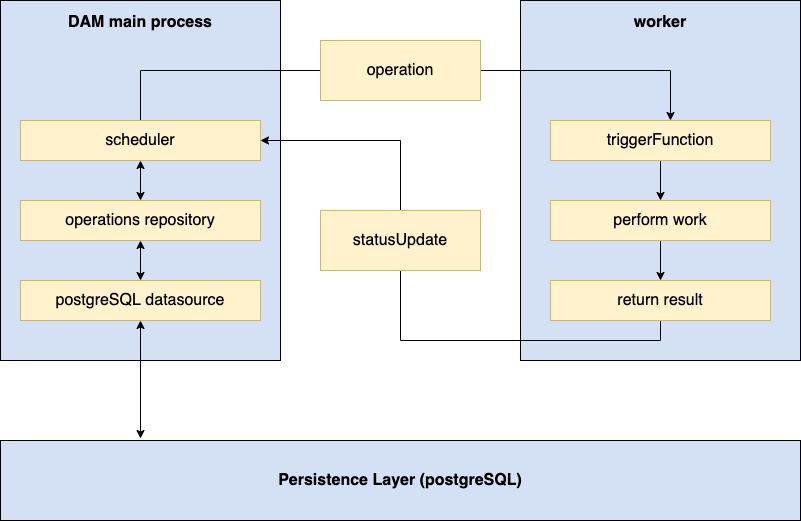
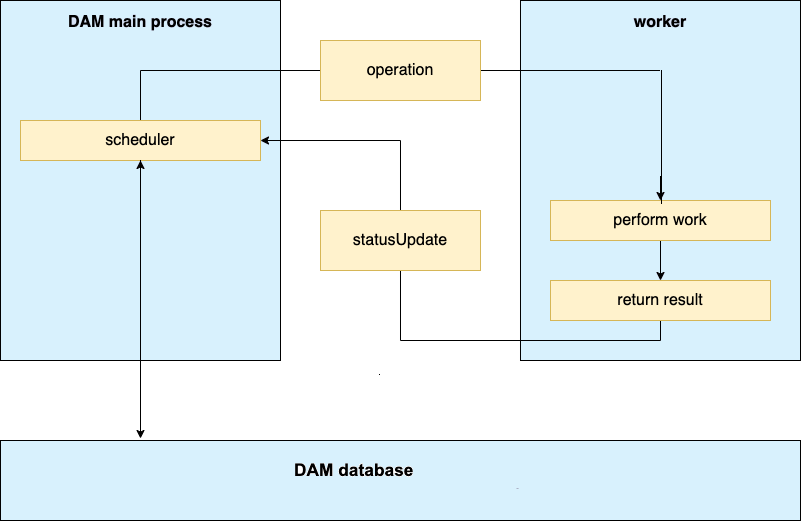
updated

diff --git a/docs/manage_content/digital_assets/operation_framework.md b/docs/manage_content/digital_assets/operation_framework.md
@@ -1,88 +1,52 @@
-# DAM - Operations framework
+# DAM - Operations framework 
 
-## Introduction
 
-The operations framework inside DAM allows us to create distinct tasks, called operations, that can be created and will be handled by a child task of DAM itself.
-This allows for better parallelization, scalability by handling multiple operations in parallel by a configurable amount of workers.
+One integral part of HCL DX Digital Asset Management is the so-called "operations framework". This tooling allows DAM to run asynchronous background processes.
 
----
-## Architectural Overview
+--- 
 
-The operations framework consists in the core of four key components (Marked **bold** in the text). For storing `operations` we leverage our ` DAM database`. On top of it sits a **`scheduler`** which will look for `operations` that need to be handled and will assign those to **`workers`**. Those **`workers`** receive the `operation` to be handled via inter-process-communication (IPC) from the DAM main process and will return their result after being done via IPC as well. Each operation has the name of the **`triggerFunction`** it is supposed to execute, as well as `inputs` that define attributes and data to work with for handling this `operation`.
+The operations framework consists of four key components:
+
+- For storing `operations` we leverage our `DAM database`. On top of it sits a **`scheduler`** which always looks for `operations` that need to be handled and will assign those to **`workers`**. Those **`workers`** receive the `operation` to be handled from the scheduler and will return their result after being done.
+- This allows for better parallelization, scalability by handling multiple operations in parallel by a configurable amount of workers.
 
 ![Architectural Overview](.../../../../images/architectural_overview.png)
-
----
-## Start & Stop
-
-The operations framework needs its `scheduler` to be started with the startup of DAM, otherwise newly created `operations` or existing ones that are not done yet will **not** be able to be handled by this DAM instance.
-During the startup, the `scheduler` will spawn the configured amount of `workers` and open an IPC channel to each of those `workers`. In this step, `workers` are categorized as `pending workers`, since they did not fully boot up yet and signaled the DAM main process that they are `ready`.
-
+ 
 ---
 ## Glossary
 
 ### Operation
-A specific task that needs to be performed. Will be stored in the the operations repository and be handled by the scheduler.
-
+A specific task that needs to be performed. Will be stored in the the DAM database and be handled by the scheduler.
 ### Worker
 A forked task that will be created by the DAM main process. This `worker` will receive the `operation` from the DAM main process and carry out the work necessary. After the work is done, it will report back to the master. It can only handle one `operation` at a time. A worker has a metadata value called `lastTouched` which is used to determine how long a `worker` is its current state.
 
-### Pre-heating
-A implementation used to minimize overhead due to starting and stopping individual worker processes. Instead of launching `workers` on demand, we keep them open and idling. When there are `operations` to be handled, we do not need to wait for them to boot up first.
 
 ### StatusUpdate
-Will be send by the `workers` to the DAM main process to inform about the result of handling an `operation`.
-
-### Free workers
-`Workers` that are ready to handle `operations` but currently have no `operation` assigned.
-
-### Active workers
-`Workers` that are ready to handle `operations` and currently have one `operation` assigned.
-
-### Pending workers
-`Workers` that are not ready yet to handle `operations` and are being waited for to signal the DAM main process that they are `ready`
-
-### Expired operation
-An operation is considered expired if its current status is `PROCESSING` and its metadata value `updated` contains a timestamp older than the configured maximum time for an operation to be PROCESSING. Expired operations will be handled by the housekeeping.
-
-### Expired worker
-A `worker` is considered expired if it is a `active worker` and its metadata value `lastTouched` contains a timestamp is older that the configured maximum for a `worker` to be handling one single operation. Expired `workers` will be handled by the housekeeping.
+Will be send by the `workers` to the DAM scheduler to inform about the result of handling an `operation`.
+ 
 
 ### Scheduler
-The `scheduler` is the controlling mechanism of the operations framework. It takes care of creating `workers`, feeding them with `operations` to work on and ensuring `expired operations` and `expired workers` are being cleaned up.
+The `scheduler` is the controlling mechanism of the operations framework. It takes care of creating `workers`, feeding them with `operations` to work on and ensuring expired `operations` and expired `workers` are being cleaned up.
 
 ### Scheduler heartbeat
 The `scheduler heartbeat` defines the intervals in which the `scheduler` will try to claim `operations` for `workers`. This can be configured.
 
-### Triggerfunction
-A `triggerFunction` is the function that executed by a `worker`. It is defined in a `operation` and will be executed by the `worker`. As parameters, it will receive the `inputs` from the `operation`.
 
-### Wait operation
-An operation is considered wait if its current status is `WAIT` and its property `updated` contains a timestamp not older than the configured OPERATION_WAIT_INTERVAL for an operation to be PROCESSING.
+## List of operations
 
-## Default task
+In the following sections, we described some of the operations that normally run in DAM. The list is not complete but should give a good understanding about which kind of task are run.
 
-### Failed operations job clean up
-
-Operation table jobs are not cleaned even if operation jobs are in a failure state for a long time.
+### Failed operations clean up job
 
 -   The operation framework will have a new heartbeat for the failed operation called “failureOperationHeartbeat”.
--   This heartbeat will keep on checking the failed operation and delete them from the operation table.
+-   Naturally it might happen that the list of operations in the DAM database gets quite long. The operations cleanup job ensures to clean up obsolete operations to make sure the list it doesn't get cluttered. These kind of obsolete operations includes e.g. failed operations, etc. It is configurable for how long obsolete operations will be kept before they get finally cleaned up.
 
-#### What it does
+#### Configuration attributes in `values.yaml`
 
-- Failed operation jobs are created before maximum threshold time or threshold limit of records.
-- The maximum threshold time and threshold limit of records will configure from the helm.
-- Deleted operation job details will be logged.
-- Interval of heartbeat every hours configured by - POLL_FAILED_OPERATIONS_INTERVAL.
 
-#### Configuration values from helm
+- Maximum threshold time
 
-Configured maximum threshold time or threshold limit of records from helm. Failed operation jobs are created before maximum threshold time - FAILED_OPERATION_THRESHOLD_TIME_HOURS(default 24 hours) or threshold limit of records- FAILED_OPERATION_THRESHOLD_LIMIT_RECORDS(default 20000).
-
-#### Maximum threshold time
-
-`failedOperationThresholdTimeHours` determines the maximum threshold time for failed operation jobs  after that failed operation will be deleted. By default, value set is 24 hours. 
+`failedOperationThresholdTimeHours` determines the maximum threshold time for failed operation jobs after which failed operation will be deleted. 
 
 ```yaml
 configuration:
@@ -90,9 +54,9 @@ configuration:
     failedOperationThresholdTimeHours: 24
 ```
 
-#### Threshold limit of records
+- Threshold limit of records
 
-`failedOperationThresholdLimitRecords` determines maximum threshold limit of failed operation job records after threshold limit failed operation will be deleted. By default, value set is 20k. 
+`failedOperationThresholdLimitRecords` determines maximum threshold limit of failed operation job records. If the threshold is met, failed operation will be deleted.
 
 ```yaml
 configuration:
